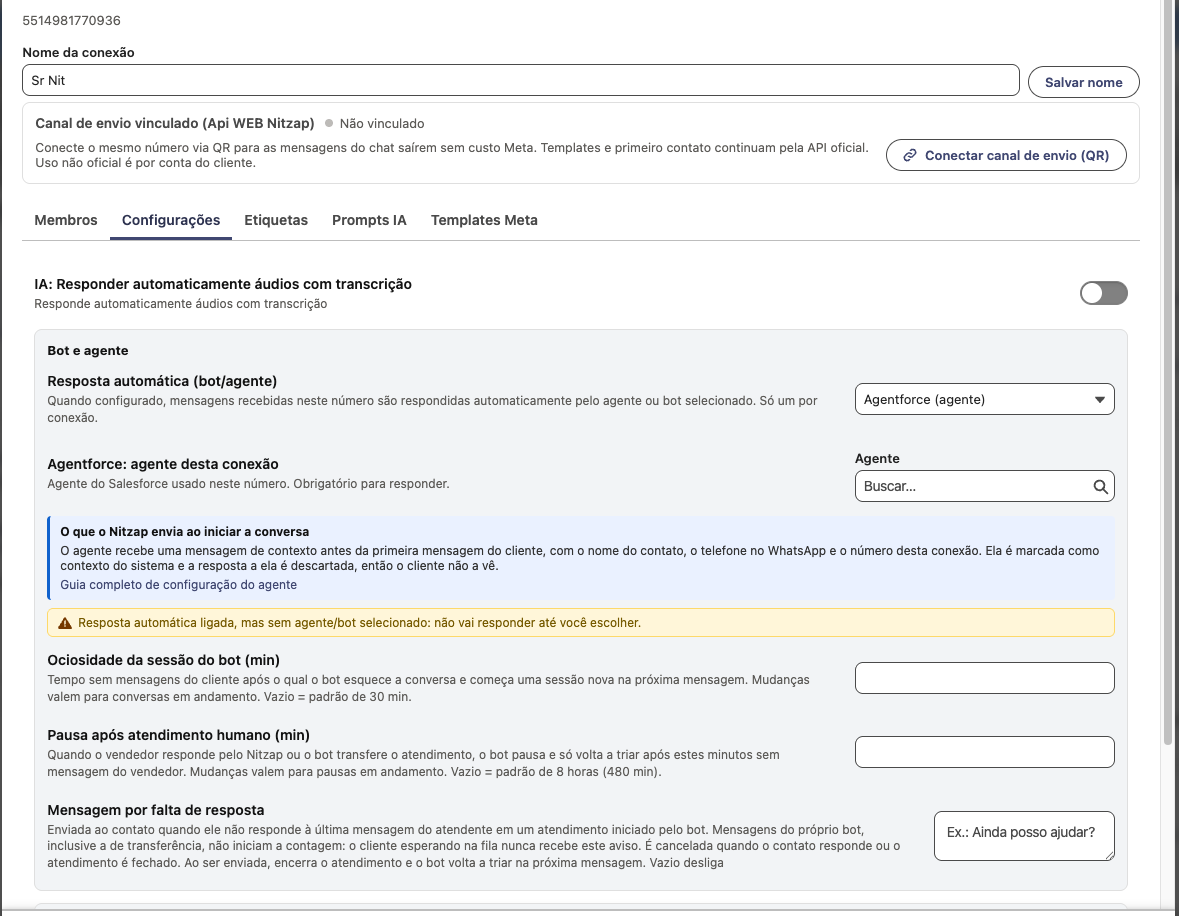
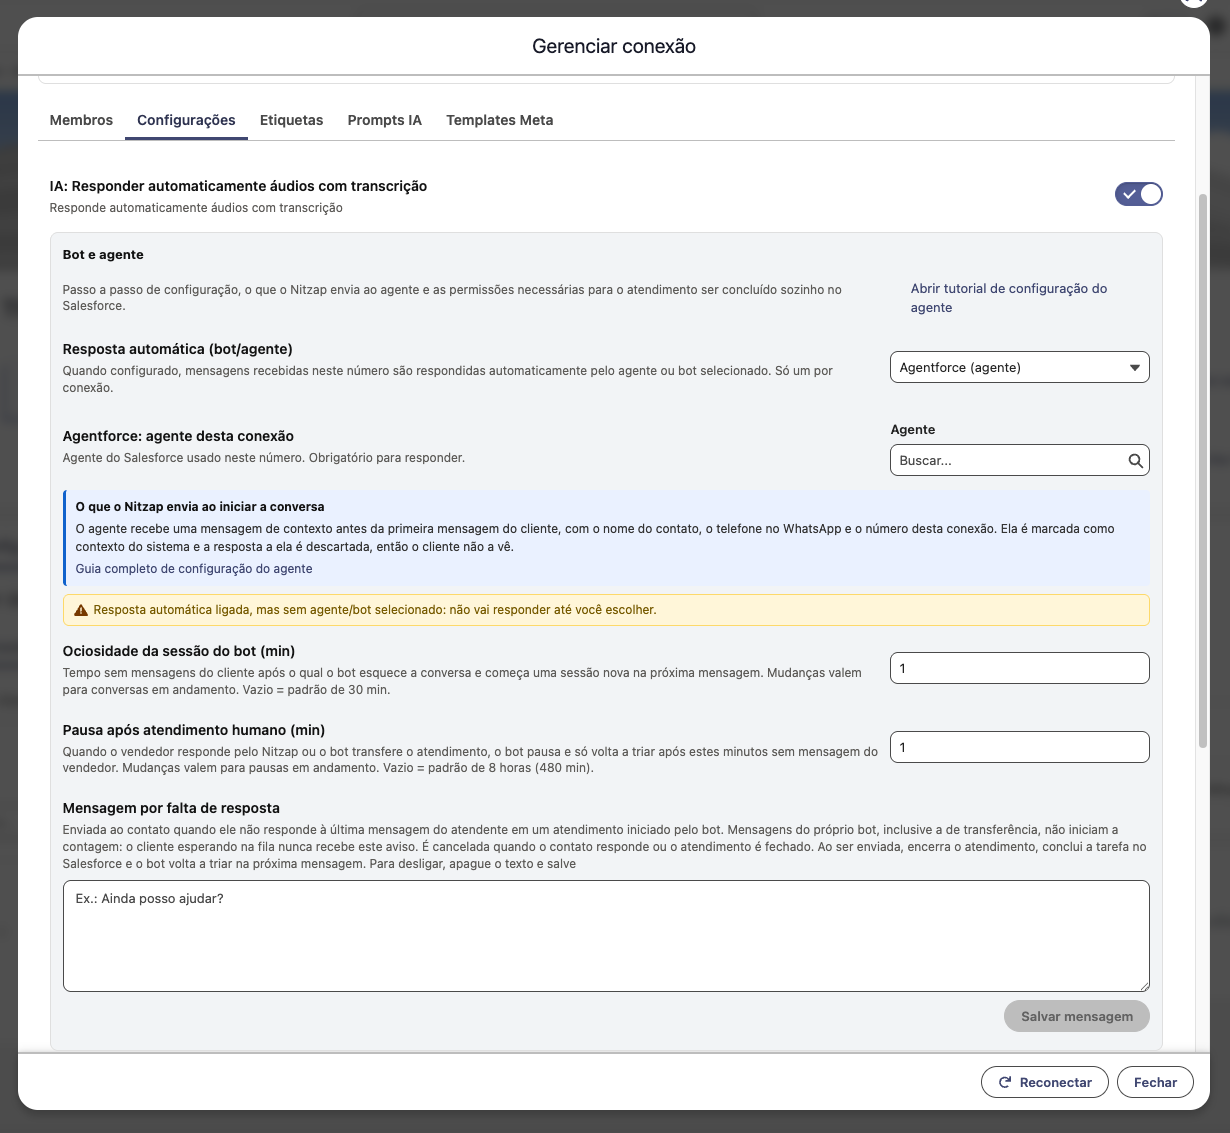
Tutorial do bot: capturas dos campos de tempo e da tela da conexão

diff --git a/docs/connect_einstein_bot.md b/docs/connect_einstein_bot.md
@@ -167,6 +167,8 @@ As perguntas abaixo são as que mais aparecem na hora de parametrizar o bloco **
 
 ## Se o cliente demora a responder ao bot, em quanto tempo o bot recomeça do zero?
 
+![Campo Ociosidade da sessão do bot](images/bot-ociosidade-sessao.png)
+
 No tempo do campo **Ociosidade da sessão do bot**, e não no da pausa. Com 10 minutos configurados, se o cliente ficar 10 minutos sem responder, o bot encerra a conversa; em branco vale 30 minutos. Havendo mensagem por falta de resposta, ela é enviada nesse momento. Quando o cliente escrever de novo, o bot começa do zero.
 
 ## Nesse momento a tarefa é fechada no Salesforce?
@@ -196,6 +198,8 @@ Quando o cliente escreve depois da pausa vencida, o bot recomeça a triagem do z
 
 ## Para que serve, afinal, a Pausa após atendimento humano?
 
+![Campo Pausa após atendimento humano](images/bot-pausa-atendimento-humano.png)
+
 É o tempo que o bot fica em silêncio para não atrapalhar o atendimento humano. Ela começa quando o bot transfere para a fila e recomeça a cada mensagem de um vendedor. O que acontece quando ela vence depende do momento:
 
 | Momento | Quando a pausa vence |
@@ -204,6 +208,8 @@ Quando o cliente escreve depois da pausa vencida, o bot recomeça a triagem do z
 | Depois que um vendedor respondeu | Se o cliente não respondeu ao vendedor até o fim do tempo, a mensagem por falta de resposta é enviada e o atendimento é encerrado |
 
 ## Quando a mensagem por falta de resposta é enviada?
+
+![Campo Mensagem por falta de resposta](images/bot-mensagem-falta-de-resposta.png)
 
 Em dois momentos, sempre que o cliente para de responder:
 
